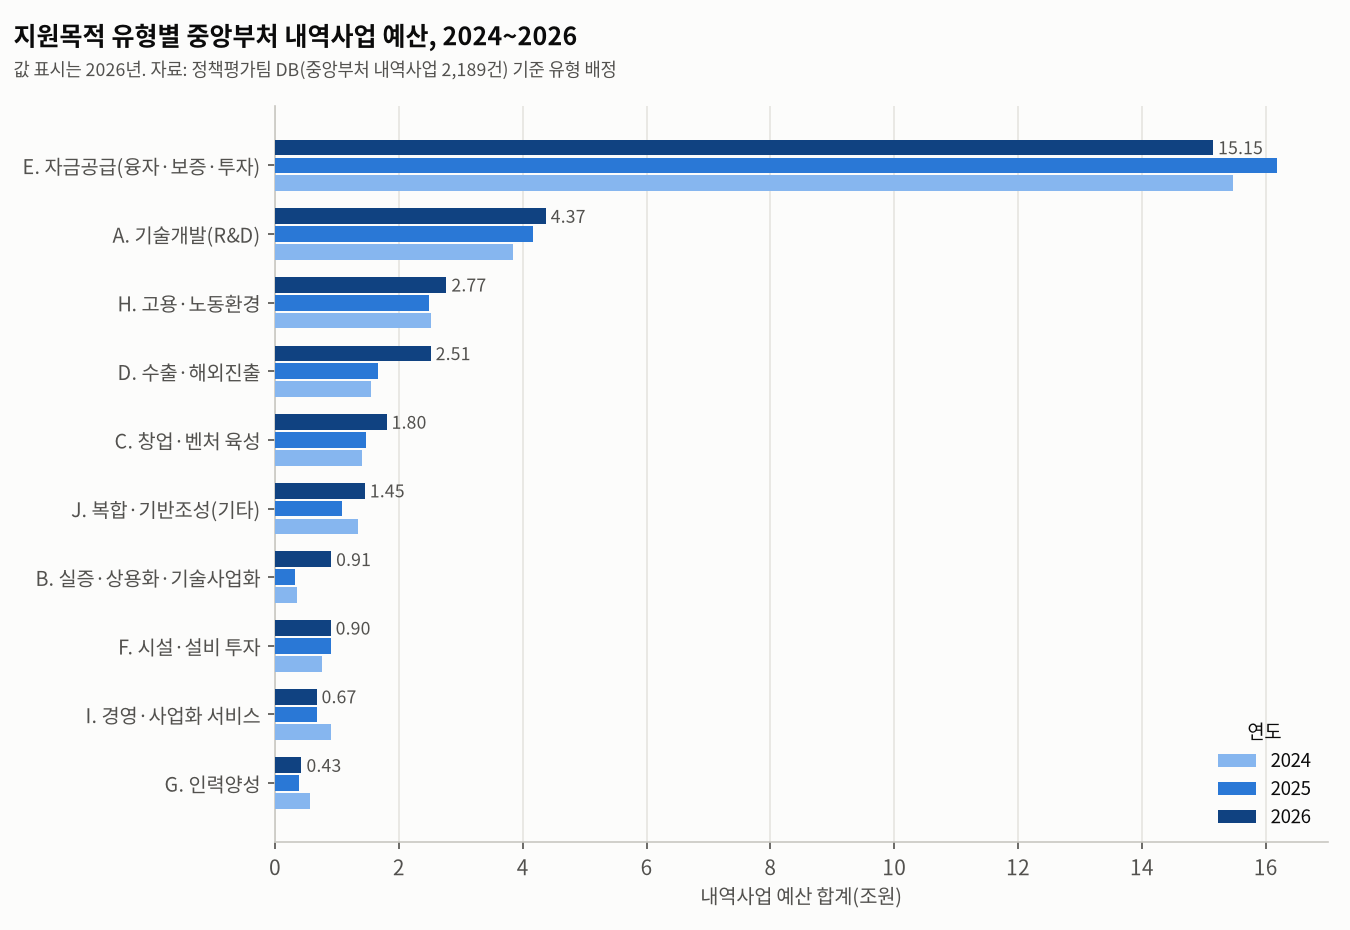
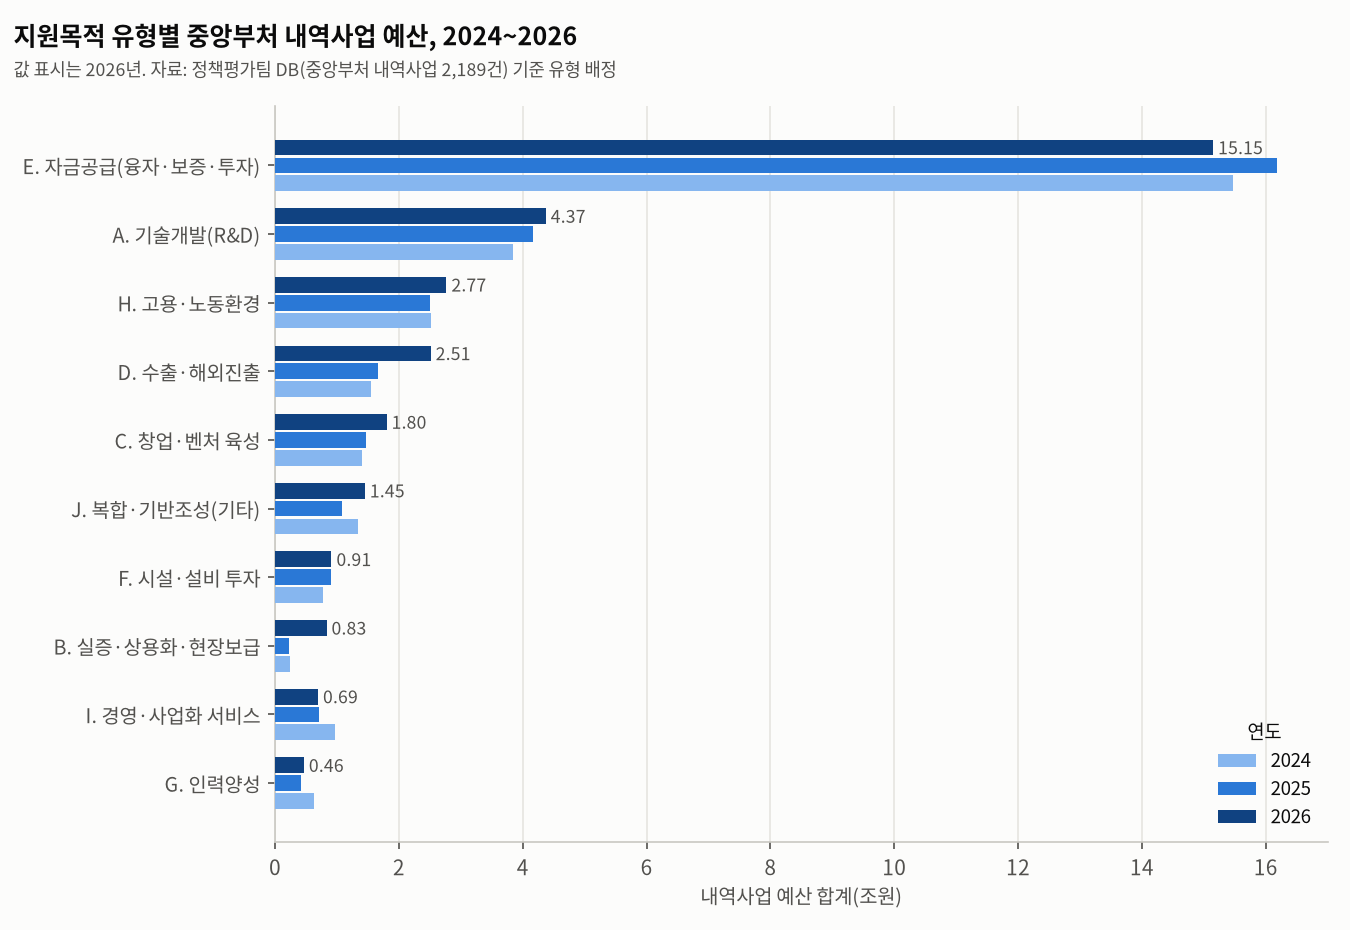
B 유형 명칭·범위 조정: 실증·상용화·현장보급으로 한정하고 경계 사례 34건 수작업 조정
- 대분류 B를 '실증·상용화·현장보급'으로 개칭, 중분류를 B1 상용화·공공실증, B2 현장 적용·보급으로 정리
- B 군집에 섞인 재직자 교육·IP 창출지원·현장클리닉·클린제조환경 등 34건을 인력양성·경영서비스·고용·시설 유형으로 조정(R3, '보정' 열 기록)
- 집계표·도표·보고서 수치 갱신

Claude-Session: https://claude.ai/code/session_01LVZLqDh2khF4pD3YkgL4mb

diff --git a/analysis/scripts/07_final_typology.py b/analysis/scripts/07_final_typology.py
@@ -10,7 +10,7 @@ df["c"] = lab
 raw = pd.read_csv("data/biz_central_2024_2026.csv").set_index("id"); df["세부지원"] = df.id.map(raw["세부지원"])
 MID = {  # k=24 군집 → 중분류 (군집 프로파일 해석; output/cluster_profile_fn_k24 참조)
  11:"A1 기술개발(일반 R&D)", 8:"A2 원천·핵심기술 개발", 2:"A3 산학연·공동 R&D", 19:"A3 산학연·공동 R&D", 0:"A4 바이오·전략기술 R&D·사업화", 16:"A5 모빌리티 기술개발·기반구축", 23:"A6 에너지 기술개발·실증",
- 1:"B1 지역·특구 상용화·공공실증", 15:"B2 현장 혁신·보급(스마트제조·현장지도)",
+ 1:"B1 상용화·공공실증(AI응용·특구·조달)", 15:"B2 현장 적용·보급(스마트제조 등)",
  12:"C1 창업·벤처 육성",
  5:"D1 수출 마케팅(전시·상담회)", 9:"D2 해외시장 진출", 20:"D3 수출업체 육성(농식품 등)",
  17:"E1 정책자금 융자(운전·시설)", 21:"E1 정책자금 융자(운전·시설)", 7:"E2 투자·보증·자금조달 지원",
@@ -19,7 +19,7 @@ MID = {  # k=24 군집 → 중분류 (군집 프로파일 해석; output/cluster
  13:"H1 고용장려금·고용안정", 14:"H2 산업안전·사업주 훈련지원",
  3:"I1 컨설팅·바우처·마케팅 서비스", 4:"I2 판로·공공구매 지원",
  18:"J1 복합·기반조성(판로·제도·생태계 등)"}
-MAJ = {"A":"A. 기술개발(R&D)", "B":"B. 실증·상용화·기술사업화", "C":"C. 창업·벤처 육성", "D":"D. 수출·해외진출", "E":"E. 자금공급(융자·보증·투자)",
+MAJ = {"A":"A. 기술개발(R&D)", "B":"B. 실증·상용화·현장보급", "C":"C. 창업·벤처 육성", "D":"D. 수출·해외진출", "E":"E. 자금공급(융자·보증·투자)",
        "F":"F. 시설·설비 투자", "G":"G. 인력양성", "H":"H. 고용·노동환경", "I":"I. 경영·사업화 서비스", "J":"J. 복합·기반조성(기타)"}
 df["중분류_연도별"] = df.c.map(MID); df["대분류_연도별"] = df["중분류_연도별"].str[0].map(MAJ); assert df["중분류_연도별"].notna().all()
 # ---- 내역사업 단위 일관 배정: 같은 내역사업(소관|세부|내역)의 연도별 임베딩 평균 → 최근접 군집 중심
@@ -35,12 +35,23 @@ nm = df["세부사업명"].fillna("") + " " + df["내역사업명"].fillna("")
 r1 = (df["세부사업명"].fillna("").str.contains(r"\(융자\)") | df["세부지원"].fillna("").str.contains("융자")) & ~df["대분류"].str[0].isin(list("CDEF"))
 r2 = nm.str.contains("보증|대위변제|팩토링|보험금|재보증") & (df["대분류"].str[0] != "E")
 df.loc[r1, "중분류"] = "E1 정책자금 융자(운전·시설)"; df.loc[r2, "중분류"] = "E2 투자·보증·자금조달 지원"
-df["대분류"] = df["중분류"].str[0].map(MAJ); df["보정"] = np.where(r1, "R1 융자", np.where(r2, "R2 보증·보험", ""))
+df["보정"] = np.where(r1, "R1 융자", np.where(r2, "R2 보증·보험", ""))
+# R3 경계 사례 수작업 조정: B(실증·상용화) 군집에 포함됐으나 목적이 인력양성·고용·경영서비스·시설인 사업 (내역사업명 기준)
+R3 = {"G1 전문인력 양성·채용": ["ICT이노베이션스퀘어조성", "산학융합촉진지원", "특화단지재직자교육", "재직자맞춤형기술교육", "스마트팜기업재직자전문교육운영"],
+      "H2 산업안전·사업주 훈련지원": ["차별없는일터지원단운영", "중장년내일센터", "중대재해대응지원"],
+      "I1 컨설팅·바우처·마케팅 서비스": ["중소기업 IP 창출지원", "중소기업IP창출지원", "중소기업IP바로지원", "현장클리닉", "공동A/S지원", "AI바우처지원", "HACCP인증지원", "소규모 식품업체 맞춤형 현장지도", "소규모식품업체맞춤형현장지도"],
+      "F1 시설·설비 현대화": ["클린제조환경조성"]}
+n_r3 = 0
+for mid_name, names in R3.items():
+    m3 = df["대분류"].str[0].eq("B") & df["내역사업명"].str.replace(" ", "").isin([n.replace(" ", "") for n in names])
+    df.loc[m3, "중분류"] = mid_name; df.loc[m3, "보정"] = "R3 경계조정"; n_r3 += int(m3.sum())
+df["대분류"] = df["중분류"].str[0].map(MAJ)
+print("규칙 R3", n_r3)
 print("일관배정으로 변경", n_changed_consist, "| 규칙 R1", int(r1.sum()), "R2", int(r2.sum()))
 aris = [ari(lab, KMeans(24, n_init=10, random_state=s).fit_predict(E)) for s in range(1, 11)]
 taxo = df["지원분야중분류"].fillna("NA"); m = taxo != "NA"
 g = pd.DataFrame({"k": key, "mid": df["중분류_연도별"], "maj": df["대분류_연도별"]}); g = g[g.groupby("k").k.transform("size") > 1]
-stab = dict(n_changed_by_program_consistency=n_changed_consist, n_rule_R1=int(r1.sum()), n_rule_R2=int(r2.sum()), ari_mean=np.mean(aris), ari_min=np.min(aris), silhouette=silhouette_score(E, lab), nmi_taxo=nmi(taxo[m], lab[m]), nmi_somewon=nmi(df["소관"], lab),
+stab = dict(n_changed_by_program_consistency=n_changed_consist, n_rule_R1=int(r1.sum()), n_rule_R2=int(r2.sum()), n_rule_R3=n_r3, ari_mean=np.mean(aris), ari_min=np.min(aris), silhouette=silhouette_score(E, lab), nmi_taxo=nmi(taxo[m], lab[m]), nmi_somewon=nmi(df["소관"], lab),
             consist_mid=(g.groupby("k").mid.nunique() == 1).mean(), consist_maj=(g.groupby("k").maj.nunique() == 1).mean(), n_multi_year_programs=g.k.nunique())
 lab0 = KMeans(24, n_init=10, random_state=0).fit_predict(np.load("data/emb_lsa.npy")); stab["nmi_taxo_lsa"] = nmi(taxo[m], lab0[m]); stab["nmi_somewon_lsa"] = nmi(df["소관"], lab0)
 json.dump({k: float(v) for k, v in stab.items()}, open("output/stability.json", "w"), indent=1, ensure_ascii=False); print(stab)

diff --git a/analysis/REPORT.md b/analysis/REPORT.md
@@ -17,7 +17,7 @@
  - 연도별 796건(2024), 722건(2025), 671건(2026), 고유 내역사업 1,391개
  - 문서 구성: 내역사업명 + 내역목적(없으면 세부목적의 해당 내역 구간 또는 전체) + 수혜대상 + 공고 지원내용
  - 내역목적 보유 1,753건(80.1%), 세부목적으로 대체 349건(15.9%), 목적 서술 부재 87건(4.0%)
- - 공고 지원내용 보유 781건(35.7%). 기업 직접지원형 유형에서 보유율이 높음(경영·사업화 서비스 67%, 창업 59%, 수출 48%, R&D 20%)
+ - 공고 지원내용 보유 781건(35.7%). 기업 직접지원형 유형에서 보유율이 높음(경영·사업화 서비스 66%, 창업 59%, 수출 48%, R&D 20%)
 
 ○ (방법) 형태소 분석 → TF-IDF·잠재의미분석(LSA) 임베딩 → 지원목적 축 가중 → K-평균 군집 → 해석적 병합의 5단계
  - 형태소 분석기(kiwipiepy)로 명사·외국어 중심 토큰 추출, 정책 용어 사용자 사전 약 90어 적용(소상공인, 사업화, 바우처 등 분리 방지)
@@ -25,7 +25,7 @@
  - 지원목적 축: 용어별 χ² 통계로 「지원유형 분류와의 연관도」 대비 「산업영역(지원산업·소관)과의 연관도」 비율을 산출해 가중. 융자·컨설팅·상담회 등 기능 어휘는 강조, 디스플레이·해양·콘텐츠 등 영역 어휘는 완화
  * 가중 결과 소관과의 정보량(NMI)이 0.383→0.207로 절반 감소하고 기존 지원유형 분류와의 정보량은 0.360→0.379로 상승. 군집이 '어느 산업'보다 '무슨 목적'을 반영하도록 조정됨
  - K-평균(k=24) 군집을 핵심어·대표사업·예산 상위 사업으로 해석하여 중분류 21개로 명명하고, 대분류 10개로 병합
- - 동일 내역사업은 연도별 임베딩 평균의 최근접 군집으로 단일 유형에 배정(150건 조정)하고, 융자·보증 사업에 메타데이터 보정규칙 적용(58건)
+ - 동일 내역사업은 연도별 임베딩 평균의 최근접 군집으로 단일 유형에 배정(150건 조정)하고, 융자·보증 사업에 메타데이터 보정규칙(58건), 실증·상용화 군집의 경계 사례에 수작업 조정(34건)을 적용
 
 ○ (타당성) 군집 안정성과 외부 기준 정합성을 지표로 확인
  - 임의 시드 10회 재군집과의 조정랜드지수(ARI) 평균 0.41, 실루엣 0.075(단문 정책 텍스트의 통상 범위)
@@ -38,11 +38,11 @@
 
 ### 1. 지원목적 유형 체계
 
-□ 지원목적은 「기술개발 → 실증·상용화 → 창업·성장 → 시장진출」의 혁신 단계형 6개 유형과 「자금·시설·인력·고용」의 투입요소형 4개 유형으로 구조화됨
+□ 지원목적은 「기술개발 → 실증·현장보급 → 창업·성장 → 시장진출」의 혁신 단계형 6개 유형과 「자금·시설·인력·고용」의 투입요소형 4개 유형으로 구조화됨
 
 ○ (대분류 10개·중분류 21개)
  - A. 기술개발(R&D): A1 일반 R&D, A2 원천·핵심기술, A3 산학연·공동 R&D, A4 바이오·전략기술 R&D·사업화, A5 모빌리티 기술개발·기반구축, A6 에너지 기술개발·실증
- - B. 실증·상용화·기술사업화: B1 지역·특구 상용화·공공실증, B2 현장 혁신·보급(스마트제조·현장지도)
+ - B. 실증·상용화·현장보급: B1 상용화·공공실증(AI응용·특구·조달), B2 현장 적용·보급(스마트제조 등). 기술이전·특허사업화 등 '기술사업화' 전반은 포함하지 않으며, 개발된 기술·제품의 실증과 현장 적용에 한정
  - C. 창업·벤처 육성: C1 창업·벤처 육성
  - D. 수출·해외진출: D1 수출 마케팅(전시·상담회), D2 해외시장 진출, D3 수출업체 육성(농식품 등)
  - E. 자금공급(융자·보증·투자): E1 정책자금 융자(운전·시설), E2 투자·보증·자금조달 지원
@@ -66,14 +66,14 @@
 
 ○ (예산 규모) 대분류별 2026년 예산과 2024년 대비 증감률(표 1)
  - E 자금공급 15.15조원(△2.1%), A 기술개발 4.37조원(+13.7%), H 고용·노동환경 2.77조원(+10.1%), D 수출·해외진출 2.51조원(+62.3%), C 창업·벤처 1.80조원(+28.7%)
- - J 복합·기반조성 1.45조원(+8.3%), B 실증·상용화 0.91조원(+151.7%), F 시설·설비 0.90조원(+17.3%), I 경영·사업화 서비스 0.67조원(△25.5%), G 인력양성 0.43조원(△25.1%)
+ - J 복합·기반조성 1.45조원(+8.3%), F 시설·설비 0.91조원(+17.7%), B 실증·상용화·현장보급 0.83조원(+249.4%), I 경영·사업화 서비스 0.69조원(△27.8%), G 인력양성 0.46조원(△25.2%)
  - 전체 예산은 28.71조원(2024) → 29.32조원(2025) → 30.95조원(2026)으로 연평균 3.8% 증가
 
 ○ (추이) 시장진출·상용화 단계 지원이 빠르게 확대되고, 역량 서비스형 지원은 축소
  - D2 해외시장 진출 0.26조원 → 0.99조원(+278.2%): 글로벌선도기술개발(2,740억원) 등 R&D 사업이 글로벌 지향으로 재편된 영향 포함
- - B2 현장 혁신·보급 0.21조원 → 0.59조원(+180.5%): 제조혁신구축지원 확대
+ - B2 현장 적용·보급 0.09조원 → 0.52조원(+480.5%): 제조혁신구축지원(3,173억원) 신설·확대
  - A2 원천·핵심기술 0.41조원 → 0.24조원(△42.0%), 건수 57건 → 19건: 과기부 원천기술 내역사업의 축소·통합
- - I1 컨설팅·바우처 0.73조원 → 0.52조원(△28.3%), G1 인력양성 0.57조원 → 0.43조원(△25.1%)
+ - I1 컨설팅·바우처 0.79조원 → 0.55조원(△30.9%), G1 인력양성 0.62조원 → 0.46조원(△25.2%)
  * 내역사업 건수는 796건(2024) → 671건(2026)으로 감소하였으며, 특히 A 기술개발이 271건 → 161건으로 줄어 예산서상 내역 통합의 영향이 큼. 건수 추이는 예산 추이와 분리하여 해석할 필요
 
 ○ (지원형태와의 관계) 유형은 '목적', 출연·보조·융자 등 지원형태는 '수단'으로 구분되며 양자는 독립적 축임(표 5)
@@ -103,8 +103,8 @@
 
 ○ (포괄 항목의 재구분)
  - '혼합(단독+공동)' 331건 중 265건(80.1%)은 A 기술개발로 일관되나, 나머지는 B·D·J 등으로 분산
- - '기술사업화/이전/지도' 210건은 A 74건, J 57건, B 25건, D 19건, I 11건, G 11건으로 분산되어 단일 목적 범주로 보기 어려움
- - '디자인/상품화/사업화' 147건은 J 46건, I 38건, D 20건 등으로 나뉘며 실제 목적이 판로·서비스·수출로 다양
+ - '기술사업화/이전/지도' 210건은 A 74건, J 57건, B 23건, D 19건, I 13건, G 11건으로 분산되어 단일 목적 범주로 보기 어려움
+ - '디자인/상품화/사업화' 147건은 J 46건, I 39건, D 20건 등으로 나뉘며 실제 목적이 판로·서비스·수출로 다양
 
 ○ (정합성이 높은 항목) 융자(운전) 39건 중 35건, 융자(혼합) 40건 중 33건이 E로, 시장개척 45건 중 42건이 D로, 사업화지원 55건 중 33건이 C로 배정되어 목적이 명확한 분류와 높은 일치
 
@@ -117,9 +117,9 @@
 
 □ 지원목적 기준 포트폴리오는 자금공급 편중과 역량형 지원의 축소를 보여주며, 사업 분류·유사중복 검토·성과관리의 공통 기준으로 활용 가능함
 
-○ (포트폴리오 조정 근거) 2026년 예산의 48.9%가 융자·보증 등 자금공급이며, 컨설팅·인력양성 등 역량형 지원(G+I)은 3.5%에 그치고 2년간 25% 이상 감소
+○ (포트폴리오 조정 근거) 2026년 예산의 48.9%가 융자·보증 등 자금공급이며, 컨설팅·인력양성 등 역량형 지원(G+I)은 3.7%에 그치고 2년간 25% 이상 감소
  - 경영안정 자금의 비중이 높은 구조는 단기 유동성 대응에는 유효하나, 성장단계 전환(실증·상용화·시장진출)을 뒷받침하는 직접지원과의 균형 점검 필요
- - 실증·상용화(B)와 해외시장 진출(D2)의 급증은 정책 방향 전환을 반영하므로, 신설·확대 사업의 성과지표를 유형 공통으로 설계할 필요
+ - 실증·현장보급(B)과 해외시장 진출(D2)의 급증은 정책 방향 전환을 반영하므로, 신설·확대 사업의 성과지표를 유형 공통으로 설계할 필요
 
 ○ (분류체계 보완) 기존 지원분야 분류의 결측(36%)과 포괄 항목을 임베딩 기반 자동 분류로 보완하고, 분류 기준을 '목적(10개 대분류)'과 '수단(지원형태)'의 2개 축으로 명시
  - 신규 사업 등록 시 사업목적·공고문만으로 유형을 자동 제안하여 입력 부담과 부처 간 편차를 완화
@@ -143,6 +143,7 @@
  - 세부사업 설명자료의 내내역 단위 서술과 공고문 원문을 추가 결합하면 세분 가능
 
 ○ (경계 사례) 융자 형태이면서 창업·수출 목적인 사업, 재기지원(희망리턴패키지)과 같이 복수 목적 사업은 단일 유형 배정에 한계가 있어, 향후 복수 유형 확률 배정(soft assignment) 방식 검토
+ - 실증·상용화 군집(B)에 섞인 재직자 교육·IP 창출지원·현장클리닉 등 34건은 목적에 따라 인력양성·경영서비스 등으로 수작업 조정하였으며, 조정 내역은 배정 결과의 '보정' 열에 기록
 
 ○ (자료) 2026년 내역사업 건수 감소는 예산서 내역 구성 변화의 영향이 크므로, 건수 기반 비교는 예산서 작성 체계 변동을 함께 고려할 필요
 
@@ -153,14 +154,14 @@
 | 대분류 | 건수 2024 | 2025 | 2026 | 예산(조원) 2024 | 2025 | 2026 | 증감률 24→26 | 2026 비중 |
 |---|---:|---:|---:|---:|---:|---:|---:|---:|
 | A. 기술개발(R&D) | 271 | 217 | 161 | 3.85 | 4.17 | 4.37 | +13.7% | 14.1% |
-| B. 실증·상용화·기술사업화 | 47 | 40 | 39 | 0.36 | 0.32 | 0.91 | +151.7% | 2.9% |
+| B. 실증·상용화·현장보급 | 34 | 27 | 31 | 0.24 | 0.22 | 0.83 | +249.4% | 2.7% |
 | C. 창업·벤처 육성 | 44 | 35 | 39 | 1.40 | 1.46 | 1.80 | +28.7% | 5.8% |
 | D. 수출·해외진출 | 79 | 81 | 101 | 1.55 | 1.66 | 2.51 | +62.3% | 8.1% |
 | E. 자금공급(융자·보증·투자) | 73 | 75 | 78 | 15.47 | 16.19 | 15.15 | △2.1% | 48.9% |
-| F. 시설·설비 투자 | 25 | 26 | 28 | 0.77 | 0.90 | 0.90 | +17.3% | 2.9% |
-| G. 인력양성 | 34 | 38 | 37 | 0.57 | 0.38 | 0.43 | △25.1% | 1.4% |
-| H. 고용·노동환경 | 41 | 42 | 33 | 2.51 | 2.48 | 2.77 | +10.1% | 8.9% |
-| I. 경영·사업화 서비스 | 53 | 45 | 55 | 0.90 | 0.67 | 0.67 | △25.5% | 2.2% |
+| F. 시설·설비 투자 | 26 | 27 | 29 | 0.77 | 0.91 | 0.91 | +17.7% | 2.9% |
+| G. 인력양성 | 39 | 43 | 41 | 0.62 | 0.42 | 0.46 | △25.2% | 1.5% |
+| H. 고용·노동환경 | 42 | 44 | 33 | 2.51 | 2.50 | 2.77 | +10.1% | 8.9% |
+| I. 경영·사업화 서비스 | 59 | 50 | 58 | 0.96 | 0.70 | 0.69 | △27.8% | 2.2% |
 | J. 복합·기반조성(기타) | 129 | 123 | 100 | 1.34 | 1.09 | 1.45 | +8.3% | 4.7% |
 | 합계 | 796 | 722 | 671 | 28.71 | 29.32 | 30.95 | +7.8% | 100% |
 
